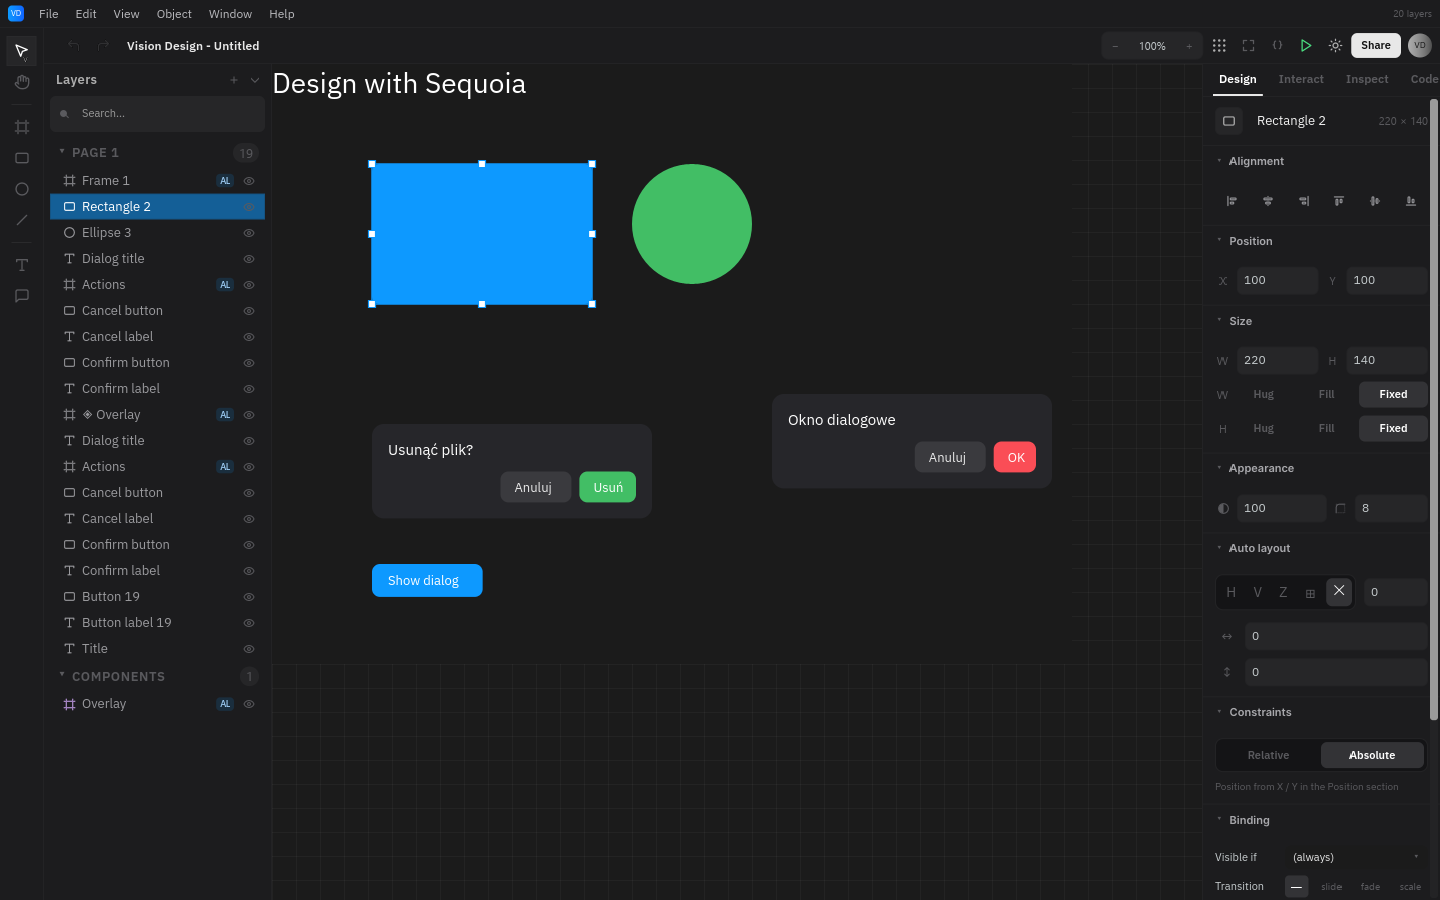
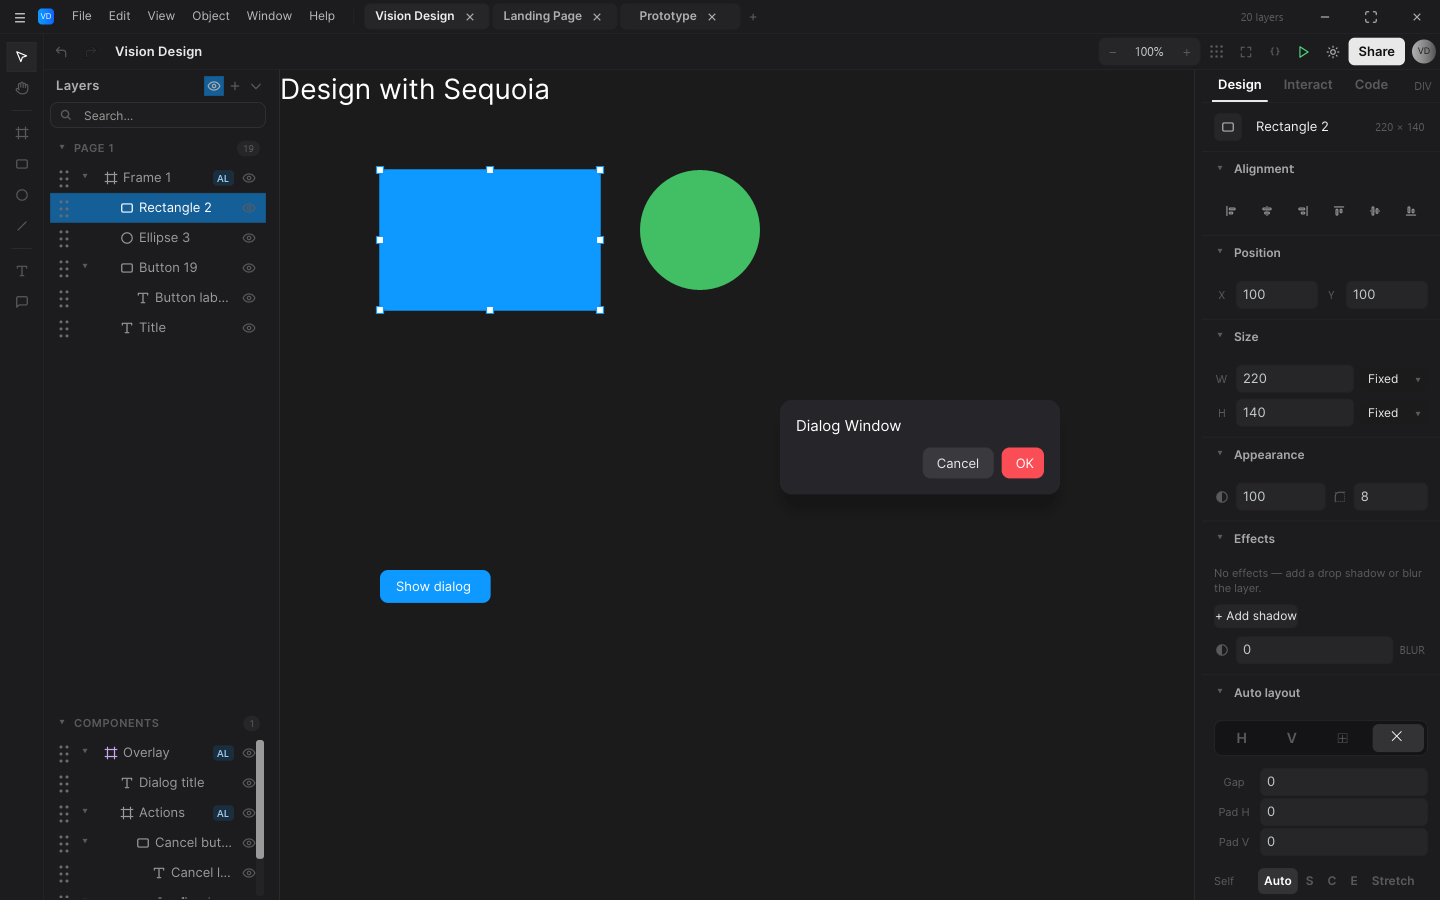
fix(view): stabilize text intrinsic sizing and refresh perf docs
Measure non-wrapped Text with an unconstrained shape so fractional DPI scales cannot wrap the last word and inflate intrinsic height. Guard linear layout culling against shrinkable children, update the row_update benchmark target, and document the measured performance numbers.

diff --git a/crates/sequoia-view/src/runtime.rs b/crates/sequoia-view/src/runtime.rs
@@ -3521,6 +3521,7 @@ impl Runtime {
         let mut child_styles = Vec::with_capacity(capacity);
         let mut ids = Vec::with_capacity(capacity);
         let mut used_outer = 0.0_f32;
+        let mut shrinkable = false;
 
         for (orig_i, &child) in children.iter().enumerate() {
             let cs = self.child_layout_style(child);
@@ -3530,6 +3531,8 @@ impl Runtime {
             let extra = flex.get(orig_i).copied().unwrap_or(0.0);
             let (base, grow, shrink, cross, mn, mx) =
                 self.child_layout_info_full(child, cstyle, avail_main, avail_cross, extra, ctx);
+            let fixed = Self::cullable_main(&cs, cstyle.axis, base, mn);
+            shrinkable |= !fixed;
             if !bases.is_empty() {
                 used_outer += cstyle.gap;
             }
@@ -3541,7 +3544,7 @@ impl Runtime {
             }
             items.push(FlexItem::new(base, grow, shrink, mn, mx));
             child_styles.push(cs);
-            if cull && used_outer > avail_main && Self::cullable_main(&cs, cstyle.axis) {
+            if cull && !shrinkable && used_outer > avail_main && fixed {
                 break;
             }
         }
@@ -4663,6 +4666,7 @@ impl Runtime {
             Vec::with_capacity(children.len().min(256));
         let mut used_outer = 0.0_f32;
         let mut cut = None;
+        let mut shrinkable = false;
         for (orig, &child) in children.iter().enumerate() {
             let extra = flex.get(orig).copied().unwrap_or(0.0);
             let cs = self.child_layout_style(child);
@@ -4671,12 +4675,14 @@ impl Runtime {
             }
             let (base, grow, shrink, cross, mn, mx) =
                 self.child_layout_info_full(child, cstyle, avail_main, avail_cross, extra, ctx);
+            let fixed = Self::cullable_main(&cs, cstyle.axis, base, mn);
+            shrinkable |= !fixed;
             if !infos.is_empty() {
                 used_outer += cstyle.gap;
             }
             used_outer += base;
             infos.push((child, base, grow, shrink, cross, mn, mx, cs));
-            if cull && used_outer > avail_main && Self::cullable_main(&cs, cstyle.axis) {
+            if cull && !shrinkable && used_outer > avail_main && fixed {
                 cut = Some(orig + 1);
                 break;
             }
@@ -5285,10 +5291,10 @@ impl Runtime {
         avail_main.is_finite() && avail_main >= 0.0
     }
 
-    /// Whether `cs` may be the last laid-out child before the cut: it must not
-    /// claim flexible space and must not pull later siblings back into view
-    /// with a negative margin.
-    fn cullable_main(cs: &LayoutStyle, axis: Axis) -> bool {
+    /// Whether a child may be the last laid-out item before the cut: it must
+    /// not claim flexible space, must not shrink into view below its base, and
+    /// must not pull later siblings back with a negative margin.
+    fn cullable_main(cs: &LayoutStyle, axis: Axis, base: f32, min: f32) -> bool {
         let (start, end) = match axis {
             Axis::Horizontal => (cs.margin.left, cs.margin.right),
             Axis::Vertical => (cs.margin.top, cs.margin.bottom),
@@ -5297,7 +5303,11 @@ impl Runtime {
             Axis::Horizontal => cs.width,
             Axis::Vertical => cs.height,
         };
-        start >= 0.0 && end >= 0.0 && cs.flex_weight() <= 0.0 && !auto_main.is_fill()
+        start >= 0.0
+            && end >= 0.0
+            && cs.flex_weight() <= 0.0
+            && !auto_main.is_fill()
+            && min + 0.01 >= base
     }
 
     fn extra_main(avail_main: f32, used_main: f32) -> f32 {
@@ -6688,6 +6698,40 @@ mod tests {
         let bounds = Rect::from_xywh(0.0, 0.0, 800.0, 600.0);
         rt.layout(bounds, &mut text);
         assert_eq!(rt.rect_of(rt.root().unwrap()).unwrap().size, bounds.size);
+    }
+
+    #[test]
+    fn text_without_wrap_stays_single_line_at_fractional_scale() {
+        use crate::views::Text;
+
+        let mut text = TextSystem::new();
+        if text.shape("Hg", 16.0).glyph_count() == 0 {
+            eprintln!("skip: no fonts in environment");
+            return;
+        }
+        text.set_scale_factor(1.5);
+        let content = "Dark Theme";
+
+        for i in 16..=48 {
+            let size = i as f32 * 0.5;
+            let expected = text.shape(content, size).height();
+            let rt = Runtime::new();
+            rt.mount(Text::new(content).size(size));
+            rt.layout(Rect::from_xywh(0.0, 0.0, 400.0, 400.0), &mut text);
+            let height = rt.rect_of(rt.root().unwrap()).unwrap().size.height;
+            assert!(
+                (height - expected).abs() < 0.01,
+                "non-wrapped text at size {size} measured {height}, expected {expected}"
+            );
+        }
+
+        let multiline = text.shape("one\ntwo", 16.0);
+        let rt = Runtime::new();
+        rt.mount(Text::new("one\ntwo").size(16.0));
+        rt.layout(Rect::from_xywh(0.0, 0.0, 400.0, 400.0), &mut text);
+        let height = rt.rect_of(rt.root().unwrap()).unwrap().size.height;
+        assert!((height - multiline.height()).abs() < 0.01);
+        assert!(height > text.shape("one", 16.0).height() * 1.5);
     }
 
     #[test]

diff --git a/crates/sequoia-view/src/views.rs b/crates/sequoia-view/src/views.rs
@@ -928,26 +928,17 @@ impl View for Text {
                 self.line_height,
             )
         } else {
-            let w = ctx.text_width_styled_spaced(
+            ctx.text_wrapped_size_styled_spaced_lh(
                 &content,
                 size,
                 weight,
-                self.letter_spacing,
-                family,
-                fstyle,
-            );
-            let shaped = ctx.text_wrapped_size_styled_spaced_lh(
-                &content,
-                size,
-                weight,
-                w.max(1.0),
+                0.0,
                 self.wrap_mode,
                 self.letter_spacing,
                 family,
                 fstyle,
                 self.line_height,
-            );
-            Size::new(w.max(shaped.width), shaped.height)
+            )
         };
         Some(Size::new(
             text_size.width + pad.horizontal_sum(),

diff --git a/crates/sequoia-ui/examples/row_update.rs b/crates/sequoia-ui/examples/row_update.rs
@@ -13,7 +13,7 @@ const ROWS: usize = 3_000;
 const WARMUP: usize = 10;
 const RUNS: usize = 100;
 const TOTAL_FRAMES: u32 = (WARMUP + RUNS) as u32;
-const TARGET_ROW: usize = 1_500;
+const TARGET_ROW: usize = 10;
 
 #[derive(Clone, PartialEq)]
 struct RowData {

diff --git a/README.md b/README.md
@@ -13,7 +13,9 @@ Virtual DOM, no WebView, and no JavaScript runtime.
 </p>
 
 *Vision Design is a complete design-tool example in this repository. It uses
-the same public API that ships in `sequoia-ui`.*
+the same public API that ships in `sequoia-ui`. The screenshot above is
+rendered headlessly by `cargo run -p vision-design --bin render`, so it always
+matches the code in `example/vision-design`.*
 
 ## What you get
 
@@ -29,6 +31,60 @@ the same public API that ships in `sequoia-ui`.*
   effect chains.
 - **Desktop details.** IME, accessibility metadata, hotkeys, animations, async
   work, multi-window support, and headless PNG export.
+
+## Performance
+
+A short version: in a list of **3 000 rows**, changing one row updates one row
+and costs about **0.01 ms** of reactive work. Changing every row at once still
+fits comfortably in a single 60 fps frame, on integrated graphics.
+
+The benchmark (`crates/sequoia-ui/examples/row_update.rs`) builds the list once,
+then changes row data for 110 frames. The first 10 frames are warm-up; the rest
+are reported as the median (p50), which is the typical frame, not the best one.
+
+Two terms used below:
+
+- **Rebuilt** — the row's text closure runs again to produce a new string.
+  Nothing else in the tree is touched.
+- **Coarse trigger** — a global version signal that every row reads, so changing
+  it marks the whole list dirty. It is the worst case for any reactive UI, for
+example a shared "document changed" counter.
+
+### Without a window (CPU only)
+
+| What changes each frame | Rows rebuilt | Rebuild p50 | Frame p50 | Layout: measure | Layout: arrange |
+| --- | ---: | ---: | ---: | ---: | ---: |
+| One row (fine-grained) | 1 | 0.01 ms | 1.11 ms | 0.07 ms | 0.34 ms |
+| One row, but the whole list is marked dirty | 38 | 0.25 ms | 0.80 ms | 0.10 ms | 0.18 ms |
+| All 3 000 rows (fine-grained) | 38 | 0.66 ms | 1.27 ms | 0.11 ms | 0.19 ms |
+
+Even when the list is marked dirty as a whole, only the rows that are on screen
+are rebuilt. Text measurement is cached between frames and shows the same effect:
+changing one row keeps **149 of 153** measurements, while dirtying everything
+leaves only **38**.
+
+### With a window — Intel HD Graphics 620, wgpu/Vulkan, 800×600, vsync on
+
+| What changes each frame | Rebuild p50 | Frame p50 | Average frame |
+| --- | ---: | ---: | ---: |
+| One row (fine-grained) | 0.02 ms | 2.50 ms | 10.24 ms |
+| One row, but the whole list is marked dirty | 1.22 ms | 12.63 ms | 14.51 ms |
+| All 3 000 rows (fine-grained) | 2.04 ms | 15.61 ms | 14.01 ms |
+
+The entire list is painted with **3 render passes and 2 draw calls**, about 600
+glyphs per frame. Vsync holds the average frame time at the display refresh rate,
+so the last column means "the frame was ready and waited for the screen", not
+"the frame cost 14 ms". Add `--no-vsync` to see the raw cost.
+
+These numbers come from one modest laptop GPU, not from every machine. To
+reproduce them:
+
+```text
+cargo run --release --example row_update              # all CPU scenarios
+cargo run --release --example row_update -- gpu s1    # one row, fine-grained
+cargo run --release --example row_update -- gpu s2    # one row, whole list dirty
+cargo run --release --example row_update -- gpu s3    # all rows
+```
 
 ## Install
 
